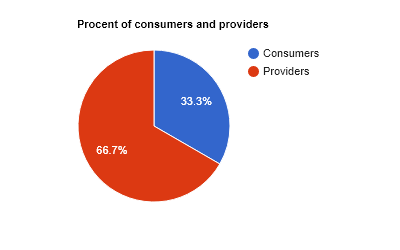
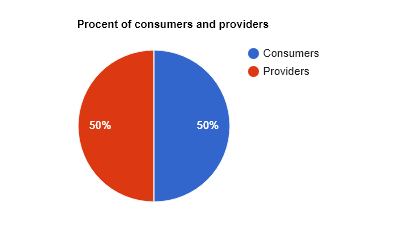
pdf exporter

diff --git a/database/stats/pdfExporter.js b/database/stats/pdfExporter.js
@@ -1,0 +1,115 @@
+const fs = require('fs');
+const stats = require('../stats.js')
+
+// console.log(stats)
+
+const GoogleChartsNode = require('google-charts-node');
+
+
+var drawChart;
+
+async function render(width, height, name, drawChart) {
+
+    const image = await GoogleChartsNode.render(drawChart, {
+        width: width, //400
+        height: height,//250
+    });
+
+    fs.writeFileSync(name, image);
+}
+
+stats.getConsumerProviderUserProcent().then(r => {
+
+    drawChart = `
+    // Create the data table.
+    var data = new google.visualization.DataTable();
+    data.addColumn('string', 'type');
+    data.addColumn('number', 'procent');
+    data.addRows([
+      ['Consumers', ${r.consumer_procent.slice(0,-1)}],
+      ['Providers', ${r.provider_procent.slice(0,-1)}],
+    ]);
+    // Set chart options
+    var options = { title: 'Procent of consumers and providers' };
+    // Instantiate and draw our chart, passing in some options.
+    var chart = new google.visualization.PieChart(document.getElementById('chart_div'));
+    chart.draw(data, options);
+  `;
+
+
+    render(400,250,'producer-consumer-piechart.png',drawChart)
+})
+
+async function selectConsumersForCounty(county, pairArray) {
+    return new Promise((resolve, reject) => {
+
+        for (var i = 0; i < pairArray.length; i++) {
+            if (pairArray[i].county.localeCompare(county) == 0) {
+                resolve(pairArray[i].number_of_consumers)
+            }
+        }
+        resolve(0)
+    })
+}
+
+
+stats.getNumberOfUsersPerCounty().then(r => {
+
+    var numberOfUsersPerCounty = r;
+    // console.log(numberOfUsersPerCounty[0].county)
+
+
+    stats.getNumberOfConsumersPerCounty().then(r => {
+        var numberOfConsumersPerCounty = r;
+
+        // console.log(numberOfUsersPerCounty)
+        // console.log(numberOfConsumersPerCounty)
+
+        // var i =0;
+
+        for(var i = 0; i<numberOfUsersPerCounty.length ; i++){
+            // console.log(i)
+
+            selectConsumersForCounty(numberOfUsersPerCounty[i].county, numberOfConsumersPerCounty).then(r => {
+
+                console.log(i)
+                console.log(numberOfUsersPerCounty)
+
+                console.log("County: " + numberOfUsersPerCounty[i].county + " Number of users: " + numberOfUsersPerCounty[i].number_of_users +
+                " Number of consumers: " + r + " Number of providers: " + numberOfUsersPerCounty.number_of_users - r)
+
+            })
+
+        }
+    })
+
+
+    //   drawChart = `
+    //     var data = google.visualization.arrayToDataTable([
+    //       ['County', 'Nr of consumers', 'Nr of providers'],
+    //       ['New York City, NY', 8175000, 8008000],
+    //       ['Los Angeles, CA', 3792000, 3694000],
+    //       ['Chicago, IL', 2695000, 2896000],
+    //       ['Houston, TX', 2099000, 1953000],
+    //       ['Philadelphia, PA', 1526000, 1517000]
+    //     ]);
+    //
+    //     var options = {
+    //       title: 'Population of Largest U.S. Cities',
+    //       chartArea: {width: '50%'},
+    //       hAxis: {
+    //         title: 'Total Population',
+    //         minValue: 0
+    //       },
+    //       vAxis: {
+    //         title: 'City'
+    //       }
+    //     };
+    //
+    //     var chart = new google.visualization.BarChart(document.getElementById('chart_div'));
+    //     chart.draw(data, options);
+    // `;
+    //
+    //
+    //   render(400,250,'test.png',drawChart)
+})
